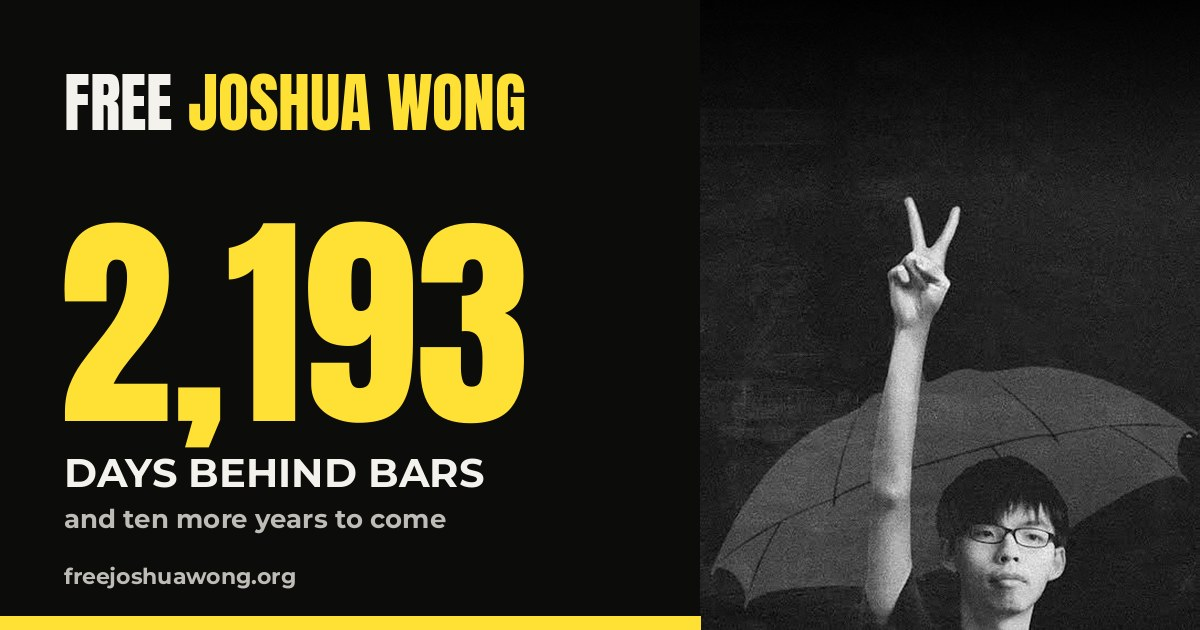
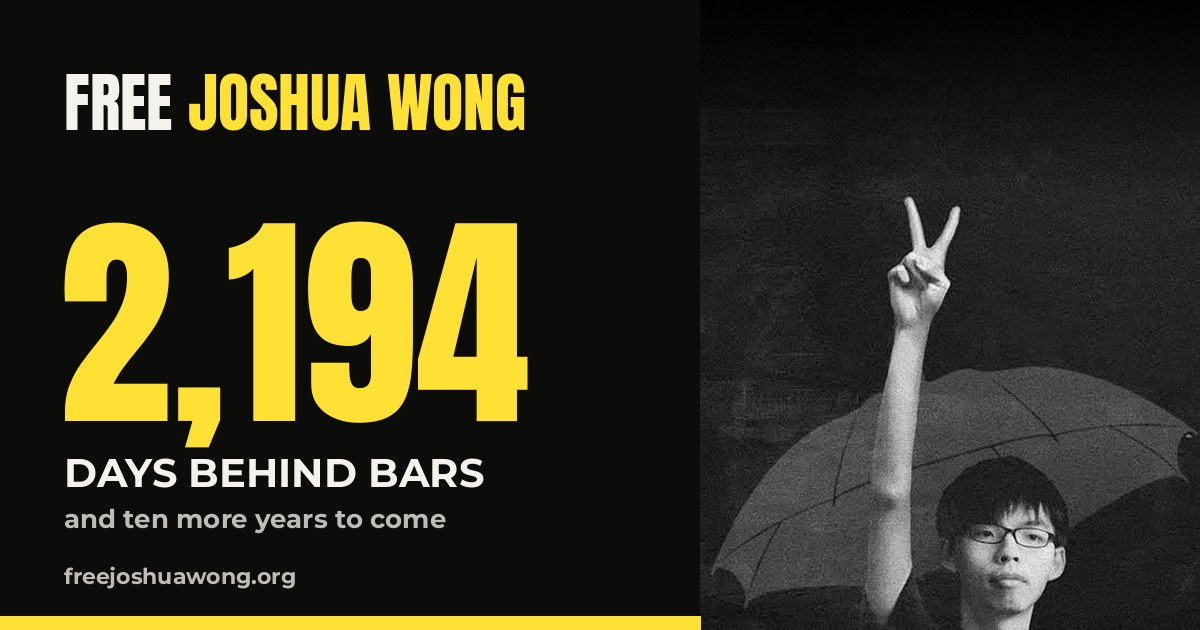
Press: add Hong Kong Watch Interpol report (25 Nov), Kong Tsung-gan prisoners list (19 Nov), CFHK Foundation 30th birthday piece (16 Oct); update Latest; rebuild
Claude-Session: https://claude.ai/code/session_01MmFPUtp6LP5YE6Mx7r4t96

Changed region(s): [[0.3392, 0.3317, 0.4625, 0.6937]]

diff --git a/index.html b/index.html
@@ -20,7 +20,7 @@
 <link rel="preconnect" href="https://fonts.googleapis.com">
 <link rel="preconnect" href="https://fonts.gstatic.com" crossorigin>
 <link href="https://fonts.googleapis.com/css2?family=Anton&family=Montserrat:wght@500;600;700;800&family=Newsreader:ital,opsz,wght@0,6..72,300..600;1,6..72,300..500&display=swap" rel="stylesheet">
-<link rel="stylesheet" href="assets/site.css?v=63387944">
+<link rel="stylesheet" href="assets/site.css?v=952ca394">
 <script data-goatcounter="https://freejoshuawong.goatcounter.com/count" async src="https://gc.zgo.at/count.js"></script>
 </head>
 <body>
@@ -43,7 +43,7 @@
       <div class="r now"><span class="y">2026</span><b>Prisoner vs. Superpower</b></div>
       <div class="r cell-row"><span class="y">Now</span>
         <div class="cell" role="timer" aria-label="Days Joshua Wong has spent in prison">
-          <div class="cell-in"><span class="n" id="days" data-jailed="2020-11-23">2,193</span><span class="u">days<br>behind bars</span></div>
+          <div class="cell-in"><span class="n" id="days" data-jailed="2020-11-23">2,194</span><span class="u">days<br>behind bars</span></div>
         </div>
       </div>
     </div>
@@ -102,7 +102,7 @@
       <a href="voices.html#governments"><b>11</b><span>governments, plus the EU, condemned his sentence</span></a>
       <a href="letters/open-letter-prime-minister-sept-2026.html"><b>31</b><span>MPs, peers and rights leaders signed the open letter to the Prime Minister</span></a>
       <a href="parliament.html"><b>17</b><span>times raised in Parliament since the new charge in June 2025</span></a>
-      <a href="newsroom.html"><b>73</b><span>reports, podcasts and editorials since June 2025</span></a>
+      <a href="newsroom.html"><b>76</b><span>reports, podcasts and editorials since June 2025</span></a>
     </div>
   </div>
 </section>
@@ -121,34 +121,34 @@
       <h3>Asked and answered</h3>
       <p class="tk-lede">What ministers have been asked about Joshua since September, and what they have said.</p>
       <div class="wait-row">
-        <div class="wait-n"><span data-since="2026-11-11">14</span><small>days since 11 Nov</small></div>
+        <div class="wait-n"><span data-since="2026-11-11">15</span><small>days since 11 Nov</small></div>
         <div><em class="tk-st st-weak">No action</em><h4>Will the UK consider sanctions on those responsible?</h4><p>Written question from Richard Holden MP. Answering on 19 November, the minister said it “would not be appropriate for me to speculate on future measures”. <a href="https://questions-statements.parliament.uk/written-questions/detail/2026-11-11/42157" target="_blank" rel="noopener">The answer</a></p></div>
       </div>
       <div class="wait-row">
-        <div class="wait-n"><span data-since="2026-11-10">15</span><small>days since 10 Nov</small></div>
+        <div class="wait-n"><span data-since="2026-11-10">16</span><small>days since 10 Nov</small></div>
         <div><em class="tk-st st-dodged">Not answered</em><h4>Has the Foreign Secretary summoned the Chinese Ambassador over Joshua?</h4><p>Written question from Alex Barros-Curtis MP, one of seven tabled after the sentence. Answered on 18 November with a reference to another answer, which does not say whether the Ambassador has been summoned. <a href="https://questions-statements.parliament.uk/written-questions/detail/2026-11-10/41576" target="_blank" rel="noopener">The answer</a></p></div>
       </div>
       <div class="wait-row">
-        <div class="wait-n"><span data-since="2026-11-10">15</span><small>days since 10 Nov</small></div>
+        <div class="wait-n"><span data-since="2026-11-10">16</span><small>days since 10 Nov</small></div>
         <div><em class="tk-st st-weak">No action</em><h4>Summon the Ambassador and call for Joshua’s release, as the Government did for Jimmy Lai</h4><p>Emily Darlington MP in the Commons. The Security Minister said the Government “share the concerns” but made no commitment. <a href="parliament.html#exchange-nov">Watch the exchange</a></p></div>
       </div>
       <div class="wait-row">
-        <div class="wait-n"><span data-since="2026-11-03">22</span><small>days since 3 Nov</small></div>
+        <div class="wait-n"><span data-since="2026-11-03">23</span><small>days since 3 Nov</small></div>
         <div><em class="tk-st st-weak">No action</em><h4>Will Joshua’s treatment count in decisions on China’s new embassy?</h4><p>Written question from Alex Barros-Curtis MP. The Government said it does not comment on ongoing legal proceedings. <a href="https://questions-statements.parliament.uk/written-questions/detail/2026-10-22/37356" target="_blank" rel="noopener">The answer</a></p></div>
       </div>
       <div class="wait-row">
-        <div class="wait-n"><span data-since="2026-09-13">73</span><small>days since 13 Sep</small></div>
+        <div class="wait-n"><span data-since="2026-09-13">74</span><small>days since 13 Sep</small></div>
         <div><em class="tk-st st-none">No reply</em><h4>Summon China’s Ambassador to raise Joshua’s case</h4><p><a href="letters/open-letter-prime-minister-sept-2026.html">The open letter to the Prime Minister</a>, Andy Burnham, signed by 31 MPs, peers and rights leaders. No reply. <a href="letters/open-letter-prime-minister-sept-2026.html">Read the letter</a></p></div>
       </div>
       <div class="wait-row">
-        <div class="wait-n"><span data-since="2026-09-08">78</span><small>days since 8 Sep</small></div>
+        <div class="wait-n"><span data-since="2026-09-08">79</span><small>days since 8 Sep</small></div>
         <div><em class="tk-st st-weak">No action</em><h4>What has the UK said to Hong Kong about Joshua’s case?</h4><p>Six written questions from Gregory Stafford MP. One answer for all six: the Government “continues to monitor” the case. <a href="https://qna.files.parliament.uk/qnadailyreports/Written-Questions-Answers-Statements-Daily-Report-Commons-2026-09-08.pdf" target="_blank" rel="noopener">Read the answer (p.478)</a></p></div>
       </div>
       <div class="wait-row">
-        <div class="wait-n"><span data-since="2026-09-01">85</span><small>days since 1 Sep</small></div>
+        <div class="wait-n"><span data-since="2026-09-01">86</span><small>days since 1 Sep</small></div>
         <div><em class="tk-st st-noupdate">No update</em><h4>Take Joshua’s case up with China</h4><p>Sir Iain Duncan Smith in the Commons. The Foreign Secretary, Ed Miliband, said he would. No update has been made public. <a href="parliament.html#exchange">Watch the exchange</a></p></div>
       </div>
-      <p class="tk-foot">For comparison: when Jimmy Lai was convicted on 15 December 2025, the Foreign Office <a href="https://www.gov.uk/government/news/statement-fcdo-summons-chinese-ambassador-15-december-2025" target="_blank" rel="noopener">summoned the Chinese Ambassador the same day</a>. Joshua was sentenced <b data-since="2026-11-05">20</b> days ago. There has been no public word of the Ambassador being summoned over his case.</p>
+      <p class="tk-foot">For comparison: when Jimmy Lai was convicted on 15 December 2025, the Foreign Office <a href="https://www.gov.uk/government/news/statement-fcdo-summons-chinese-ambassador-15-december-2025" target="_blank" rel="noopener">summoned the Chinese Ambassador the same day</a>. Joshua was sentenced <b data-since="2026-11-05">21</b> days ago. There has been no public word of the Ambassador being summoned over his case.</p>
     </div>
     <p class="h4-more"><a href="case.html">Read the full case</a></p>
   </div>
@@ -189,7 +189,7 @@ Yours sincerely,
 <section class="h4-news">
   <div class="wrap">
     <div class="h4-news-head"><h2>Latest coverage</h2><a class="h4-link" href="newsroom.html">All coverage and statements</a></div>
-    <ul class="newslist"><li><a href="https://democracylocal.substack.com/p/asia-democracy-chronicles-silenced" target="_blank" rel="noopener"><span class="o">Asia Democracy Chronicles · Andrew Shum</span><span class="h">Silenced, not forgotten: Joshua Wong’s long imprisonment</span><span class="d">23 Nov 2026</span></a></li><li><a href="https://hkuncensored.substack.com/p/apecs-blind-spot" target="_blank" rel="noopener"><span class="o">Committee for Freedom in Hong Kong Foundation</span><span class="h">APEC’s blind spot: Hong Kong’s political prisoners, including Joshua, at the Shenzhen summit</span><span class="d">20 Nov 2026</span></a></li><li><a href="https://engelsbergideas.com/notebook/xis-shenzhen-summit-was-less-novel-than-it-seemed/" target="_blank" rel="noopener"><span class="o">Engelsberg Ideas · Jeffrey Wasserstrom</span><span class="h">Xi’s Shenzhen summit was less novel than it seemed</span><span class="d">20 Nov 2026</span></a></li><li><a href="https://www.hawley.senate.gov/hawley-urges-state-department-to-advocate-for-release-of-hong-kong-rights-champion-joshua-wong/" target="_blank" rel="noopener"><span class="o">US Senate</span><span class="h">Senator Josh Hawley urges the Secretary of State to press for Joshua’s release</span><span class="d">20 Nov 2026</span></a></li><li><a href="parliament.html" target="_blank" rel="noopener"><span class="o">Parliament · Written answers</span><span class="h">Asked whether the Ambassador was summoned, the minister doesn’t say</span><span class="d">18–19 Nov 2026</span></a></li></ul>
+    <ul class="newslist"><li><a href="https://www.hongkongwatch.org/all-posts/2026/11/25/china-and-hong-kong-abusing-interpols-red-notice-system-as-world-police-chiefs-meet-in-hong-kong" target="_blank" rel="noopener"><span class="o">Hong Kong Watch</span><span class="h">China and Hong Kong abusing Interpol’s Red Notice system, as world police chiefs meet in Hong Kong</span><span class="d">25 Nov 2026</span></a></li><li><a href="https://democracylocal.substack.com/p/asia-democracy-chronicles-silenced" target="_blank" rel="noopener"><span class="o">Asia Democracy Chronicles · Andrew Shum</span><span class="h">Silenced, not forgotten: Joshua Wong’s long imprisonment</span><span class="d">23 Nov 2026</span></a></li><li><a href="https://hkuncensored.substack.com/p/apecs-blind-spot" target="_blank" rel="noopener"><span class="o">Committee for Freedom in Hong Kong Foundation</span><span class="h">APEC’s blind spot: Hong Kong’s political prisoners, including Joshua, at the Shenzhen summit</span><span class="d">20 Nov 2026</span></a></li><li><a href="https://engelsbergideas.com/notebook/xis-shenzhen-summit-was-less-novel-than-it-seemed/" target="_blank" rel="noopener"><span class="o">Engelsberg Ideas · Jeffrey Wasserstrom</span><span class="h">Xi’s Shenzhen summit was less novel than it seemed</span><span class="d">20 Nov 2026</span></a></li><li><a href="https://www.hawley.senate.gov/hawley-urges-state-department-to-advocate-for-release-of-hong-kong-rights-champion-joshua-wong/" target="_blank" rel="noopener"><span class="o">US Senate</span><span class="h">Senator Josh Hawley urges the Secretary of State to press for Joshua’s release</span><span class="d">20 Nov 2026</span></a></li></ul>
   </div>
 </section>
 </main>
@@ -233,7 +233,7 @@ window.addEventListener('DOMContentLoaded',function(){
     <div>
       <div class="brand">Free <span>Joshua Wong</span></div>
       <p>A campaign for the release of Joshua Wong, the Hong Kong democracy campaigner in prison since November 2020.</p>
-      <p class="updated" style="font-size:12px;opacity:.6">Last updated 25 November 2026</p>
+      <p class="updated" style="font-size:12px;opacity:.6">Last updated 26 November 2026</p>
     </div>
     <div class="cols">
       <nav aria-label="Footer">
@@ -248,6 +248,6 @@ window.addEventListener('DOMContentLoaded',function(){
   </div>
 </footer>
 <script src="assets/messages.js"></script>
-<script src="assets/site.js?v=63387944"></script>
+<script src="assets/site.js?v=952ca394"></script>
 </body>
 </html>

diff --git a/parliament.html b/parliament.html
@@ -20,7 +20,7 @@
 <link rel="preconnect" href="https://fonts.googleapis.com">
 <link rel="preconnect" href="https://fonts.gstatic.com" crossorigin>
 <link href="https://fonts.googleapis.com/css2?family=Anton&family=Montserrat:wght@500;600;700;800&family=Newsreader:ital,opsz,wght@0,6..72,300..600;1,6..72,300..500&display=swap" rel="stylesheet">
-<link rel="stylesheet" href="assets/site.css?v=63387944">
+<link rel="stylesheet" href="assets/site.css?v=952ca394">
 <script data-goatcounter="https://freejoshuawong.goatcounter.com/count" async src="https://gc.zgo.at/count.js"></script>
 </head>
 <body>
@@ -128,7 +128,7 @@
           <div class="px-role">Foreign Secretary</div>
           <p>Said he would take up Joshua’s case.</p>
         </div>
-        <div class="px-count"><b data-since="2026-09-01">85</b><span>days since that promise.<br>No update has been made public.</span></div>
+        <div class="px-count"><b data-since="2026-09-01">86</b><span>days since that promise.<br>No update has been made public.</span></div>
         <div data-share data-url="https://freejoshuawong.org/parliament.html" data-text="The Foreign Secretary promised to take up Joshua Wong’s case. No update since. #FreeJoshuaWong #JoshuaWong"></div>
       </div>
     </div>
@@ -192,7 +192,7 @@
         <div><div class="rec-who">Written questions · Gregory Stafford MP <span class="pty pty-con" title="Conservative">Con</span></div><h3>Six questions, one answer</h3><p>Gregory Stafford MP asked six questions on Joshua’s case, including what representations the UK has made to the Hong Kong authorities and its assessment of the rule of law in his case. Minister Chris Elmore gave a single answer: the Government continues to monitor the case, reports on it in the six-monthly reports, and repeats its call for the National Security Law to be repealed.</p><a class="src" href="https://qna.files.parliament.uk/qnadailyreports/Written-Questions-Answers-Statements-Daily-Report-Commons-2026-09-08.pdf" target="_blank" rel="noopener">Daily Report, p.478</a></div>
       </article><article class="rec" data-k="commons" id="rec-2026-09-01">
         <div class="rec-d"><span>1 Sep 2026</span><em class="k-commons">Commons</em></div>
-        <div><div class="rec-who">Foreign Office Questions · House of Commons</div><h3>“Enough is enough”</h3><p>Sir Iain Duncan Smith urged the Government to raise Joshua’s case with Beijing. Foreign Secretary Ed Miliband said he would take it up. No update has been made public since.</p><div class="rec-wait"><b data-since="2026-09-01">85</b> days, no update</div><a class="src" href="#exchange">Watch the exchange</a></div>
+        <div><div class="rec-who">Foreign Office Questions · House of Commons</div><h3>“Enough is enough”</h3><p>Sir Iain Duncan Smith urged the Government to raise Joshua’s case with Beijing. Foreign Secretary Ed Miliband said he would take it up. No update has been made public since.</p><div class="rec-wait"><b data-since="2026-09-01">86</b> days, no update</div><a class="src" href="#exchange">Watch the exchange</a></div>
       </article><article class="rec" data-k="lords">
         <div class="rec-d"><span>17 Dec 2025</span><em class="k-lords">Lords</em></div>
         <div><div class="rec-who">Jimmy Lai Conviction · House of Lords</div><h3>Named in the Lords after Jimmy Lai’s conviction</h3><p>Lord Alton asked what the Government is doing to raise the cases of pro-democracy prisoners “such as Joshua Wong and Andy Li”.</p><a class="src" href="https://hansard.parliament.uk/Lords/2025-12-17/debates/6CF28FA8-3A92-4C34-808D-A4BDD6322D85/JimmyLaiConviction" target="_blank" rel="noopener">Read the debate</a></div>
@@ -241,7 +241,7 @@
     <div>
       <div class="brand">Free <span>Joshua Wong</span></div>
       <p>A campaign for the release of Joshua Wong, the Hong Kong democracy campaigner in prison since November 2020.</p>
-      <p class="updated" style="font-size:12px;opacity:.6">Last updated 25 November 2026</p>
+      <p class="updated" style="font-size:12px;opacity:.6">Last updated 26 November 2026</p>
     </div>
     <div class="cols">
       <nav aria-label="Footer">
@@ -255,6 +255,6 @@
     </div>
   </div>
 </footer>
-<script src="assets/site.js?v=63387944"></script>
+<script src="assets/site.js?v=952ca394"></script>
 </body>
 </html>

diff --git a/zh.html b/zh.html
@@ -20,7 +20,7 @@
 <link rel="preconnect" href="https://fonts.googleapis.com">
 <link rel="preconnect" href="https://fonts.gstatic.com" crossorigin>
 <link href="https://fonts.googleapis.com/css2?family=Anton&family=Montserrat:wght@500;600;700;800&family=Newsreader:ital,opsz,wght@0,6..72,300..600;1,6..72,300..500&display=swap" rel="stylesheet">
-<link rel="stylesheet" href="assets/site.css?v=63387944">
+<link rel="stylesheet" href="assets/site.css?v=952ca394">
 <script data-goatcounter="https://freejoshuawong.goatcounter.com/count" async src="https://gc.zgo.at/count.js"></script>
 </head>
 <body>
@@ -43,7 +43,7 @@
 <div class="wrap"><p class="zh-demand">召見中國大使，釋放黃之鋒。</p></div>
 <section class="zh" style="border-top:0;padding-top:20px">
   <div class="wrap zh-body">
-    <div class="zh-count"><b data-since="2020-11-23">2193</b><span>日<br>身陷囹圄</span></div>
+    <div class="zh-count"><b data-since="2020-11-23">2194</b><span>日<br>身陷囹圄</span></div>
 
     <h2 class="zh-h">他是誰</h2>
     <p>黃之鋒十四歲時與同學創立學民思潮，2012年帶領反對國民教育科的運動。2014年雨傘運動期間，他是學生領袖之一。2016年，他與羅冠聰等人創立香港眾志。</p>
@@ -108,7 +108,7 @@
     <div>
       <div class="brand">Free <span>Joshua Wong</span></div>
       <p>A campaign for the release of Joshua Wong, the Hong Kong democracy campaigner in prison since November 2020.</p>
-      <p class="updated" style="font-size:12px;opacity:.6">Last updated 25 November 2026</p>
+      <p class="updated" style="font-size:12px;opacity:.6">Last updated 26 November 2026</p>
     </div>
     <div class="cols">
       <nav aria-label="Footer">
@@ -122,6 +122,6 @@
     </div>
   </div>
 </footer>
-<script src="assets/site.js?v=63387944"></script>
+<script src="assets/site.js?v=952ca394"></script>
 </body>
 </html>

diff --git a/assets/press.js b/assets/press.js
@@ -11,6 +11,9 @@ window.MOMENTS = [
   {id:"sentence", label:"Ten more years",     when:"November 2026"}
 ];
 window.PRESS = [
+  {date:"2026-11-25", outlet:"Hong Kong Watch", type:"rights", region:"UK", moment:"sentence", by:"Frances Bell", title:"China and Hong Kong abusing Interpol’s Red Notice system, as world police chiefs meet in Hong Kong", url:"https://www.hongkongwatch.org/all-posts/2026/11/25/china-and-hong-kong-abusing-interpols-red-notice-system-as-world-police-chiefs-meet-in-hong-kong"},
+  {date:"2026-11-19", outlet:"Kong Tsung-gan (Substack)", type:"opinion", region:"Global", moment:"sentence", by:"Kong Tsung-gan", title:"As 2026 comes to a close, there are still 25 Hong Kong pro-democracy leaders in prison", url:"https://briankernkongtsunggan.substack.com/p/as-2026-comes-to-a-close-there-are"},
+  {date:"2026-10-16", outlet:"Committee for Freedom in Hong Kong Foundation", type:"rights", region:"US", moment:"birthday", title:"‘The Most Disciplined Activist’: Joshua Wong Turns 30 Behind Bars", url:"https://thecfhk.org/9393-2/"},
   {date:"2026-11-23", outlet:"Asia Democracy Chronicles (via Democracy Local)", type:"opinion", region:"Global", moment:"sentence", by:"Andrew Shum", title:"Silenced, Not Forgotten: Joshua Wong’s Long Imprisonment", url:"https://democracylocal.substack.com/p/asia-democracy-chronicles-silenced"},
   {date:"2026-11-18", outlet:"Consequence Forum", type:"opinion", region:"Asia", moment:"sentence", by:"C. J. Anderson-Wu", title:"Hong Kong Activist Joshua Wong Receives Another Ten-Year Sentence", url:"https://consequenceforum.substack.com/p/hong-kong-activist-joshua-wong-receives"},
   {date:"2026-11-20", outlet:"Committee for Freedom in Hong Kong Foundation", type:"rights", region:"US", moment:"sentence", title:"APEC’s Blind Spot", url:"https://hkuncensored.substack.com/p/apecs-blind-spot"},

diff --git a/voices.html b/voices.html
@@ -20,7 +20,7 @@
 <link rel="preconnect" href="https://fonts.googleapis.com">
 <link rel="preconnect" href="https://fonts.gstatic.com" crossorigin>
 <link href="https://fonts.googleapis.com/css2?family=Anton&family=Montserrat:wght@500;600;700;800&family=Newsreader:ital,opsz,wght@0,6..72,300..600;1,6..72,300..500&display=swap" rel="stylesheet">
-<link rel="stylesheet" href="assets/site.css?v=63387944">
+<link rel="stylesheet" href="assets/site.css?v=952ca394">
 <script data-goatcounter="https://freejoshuawong.goatcounter.com/count" async src="https://gc.zgo.at/count.js"></script>
 </head>
 <body>
@@ -108,7 +108,7 @@
     <div>
       <div class="brand">Free <span>Joshua Wong</span></div>
       <p>A campaign for the release of Joshua Wong, the Hong Kong democracy campaigner in prison since November 2020.</p>
-      <p class="updated" style="font-size:12px;opacity:.6">Last updated 25 November 2026</p>
+      <p class="updated" style="font-size:12px;opacity:.6">Last updated 26 November 2026</p>
     </div>
     <div class="cols">
       <nav aria-label="Footer">
@@ -122,8 +122,8 @@
     </div>
   </div>
 </footer>
-<script src="assets/voices.js?v=63387944"></script>
-<script src="assets/socials.js?v=63387944"></script>
-<script src="assets/site.js?v=63387944"></script>
+<script src="assets/voices.js?v=952ca394"></script>
+<script src="assets/socials.js?v=952ca394"></script>
+<script src="assets/site.js?v=952ca394"></script>
 </body>
 </html>

diff --git a/newsroom.html b/newsroom.html
@@ -20,7 +20,7 @@
 <link rel="preconnect" href="https://fonts.googleapis.com">
 <link rel="preconnect" href="https://fonts.gstatic.com" crossorigin>
 <link href="https://fonts.googleapis.com/css2?family=Anton&family=Montserrat:wght@500;600;700;800&family=Newsreader:ital,opsz,wght@0,6..72,300..600;1,6..72,300..500&display=swap" rel="stylesheet">
-<link rel="stylesheet" href="assets/site.css?v=63387944">
+<link rel="stylesheet" href="assets/site.css?v=952ca394">
 <script data-goatcounter="https://freejoshuawong.goatcounter.com/count" async src="https://gc.zgo.at/count.js"></script>
 </head>
 <body>
@@ -139,7 +139,7 @@
     <div>
       <div class="brand">Free <span>Joshua Wong</span></div>
       <p>A campaign for the release of Joshua Wong, the Hong Kong democracy campaigner in prison since November 2020.</p>
-      <p class="updated" style="font-size:12px;opacity:.6">Last updated 25 November 2026</p>
+      <p class="updated" style="font-size:12px;opacity:.6">Last updated 26 November 2026</p>
     </div>
     <div class="cols">
       <nav aria-label="Footer">
@@ -153,7 +153,7 @@
     </div>
   </div>
 </footer>
-<script src="assets/press.js?v=63387944"></script>
-<script src="assets/site.js?v=63387944"></script>
+<script src="assets/press.js?v=952ca394"></script>
+<script src="assets/site.js?v=952ca394"></script>
 </body>
 </html>

diff --git a/act.html b/act.html
@@ -20,7 +20,7 @@
 <link rel="preconnect" href="https://fonts.googleapis.com">
 <link rel="preconnect" href="https://fonts.gstatic.com" crossorigin>
 <link href="https://fonts.googleapis.com/css2?family=Anton&family=Montserrat:wght@500;600;700;800&family=Newsreader:ital,opsz,wght@0,6..72,300..600;1,6..72,300..500&display=swap" rel="stylesheet">
-<link rel="stylesheet" href="assets/site.css?v=63387944">
+<link rel="stylesheet" href="assets/site.css?v=952ca394">
 <script data-goatcounter="https://freejoshuawong.goatcounter.com/count" async src="https://gc.zgo.at/count.js"></script>
 </head>
 <body>
@@ -134,7 +134,7 @@ Yours sincerely,
     <div>
       <div class="brand">Free <span>Joshua Wong</span></div>
       <p>A campaign for the release of Joshua Wong, the Hong Kong democracy campaigner in prison since November 2020.</p>
-      <p class="updated" style="font-size:12px;opacity:.6">Last updated 25 November 2026</p>
+      <p class="updated" style="font-size:12px;opacity:.6">Last updated 26 November 2026</p>
     </div>
     <div class="cols">
       <nav aria-label="Footer">
@@ -148,6 +148,6 @@ Yours sincerely,
     </div>
   </div>
 </footer>
-<script src="assets/site.js?v=63387944"></script>
+<script src="assets/site.js?v=952ca394"></script>
 </body>
 </html>

diff --git a/write.html b/write.html
@@ -20,7 +20,7 @@
 <link rel="preconnect" href="https://fonts.googleapis.com">
 <link rel="preconnect" href="https://fonts.gstatic.com" crossorigin>
 <link href="https://fonts.googleapis.com/css2?family=Anton&family=Montserrat:wght@500;600;700;800&family=Newsreader:ital,opsz,wght@0,6..72,300..600;1,6..72,300..500&display=swap" rel="stylesheet">
-<link rel="stylesheet" href="assets/site.css?v=63387944">
+<link rel="stylesheet" href="assets/site.css?v=952ca394">
 <script data-goatcounter="https://freejoshuawong.goatcounter.com/count" async src="https://gc.zgo.at/count.js"></script>
 </head>
 <body>
@@ -102,7 +102,7 @@
     <div>
       <div class="brand">Free <span>Joshua Wong</span></div>
       <p>A campaign for the release of Joshua Wong, the Hong Kong democracy campaigner in prison since November 2020.</p>
-      <p class="updated" style="font-size:12px;opacity:.6">Last updated 25 November 2026</p>
+      <p class="updated" style="font-size:12px;opacity:.6">Last updated 26 November 2026</p>
     </div>
     <div class="cols">
       <nav aria-label="Footer">
@@ -117,6 +117,6 @@
   </div>
 </footer>
 <script src="assets/messages.js"></script>
-<script src="assets/site.js?v=63387944"></script>
+<script src="assets/site.js?v=952ca394"></script>
 </body>
 </html>

diff --git a/letters/open-letter-prime-minister-sept-2026.html b/letters/open-letter-prime-minister-sept-2026.html
@@ -20,7 +20,7 @@
 <link rel="preconnect" href="https://fonts.googleapis.com">
 <link rel="preconnect" href="https://fonts.gstatic.com" crossorigin>
 <link href="https://fonts.googleapis.com/css2?family=Anton&family=Montserrat:wght@500;600;700;800&family=Newsreader:ital,opsz,wght@0,6..72,300..600;1,6..72,300..500&display=swap" rel="stylesheet">
-<link rel="stylesheet" href="../assets/site.css?v=63387944">
+<link rel="stylesheet" href="../assets/site.css?v=952ca394">
 <script data-goatcounter="https://freejoshuawong.goatcounter.com/count" async src="https://gc.zgo.at/count.js"></script>
 </head>
 <body>
@@ -77,7 +77,7 @@
     <div>
       <div class="brand">Free <span>Joshua Wong</span></div>
       <p>A campaign for the release of Joshua Wong, the Hong Kong democracy campaigner in prison since November 2020.</p>
-      <p class="updated" style="font-size:12px;opacity:.6">Last updated 25 November 2026</p>
+      <p class="updated" style="font-size:12px;opacity:.6">Last updated 26 November 2026</p>
     </div>
     <div class="cols">
       <nav aria-label="Footer">
@@ -91,6 +91,6 @@
     </div>
   </div>
 </footer>
-<script src="../assets/site.js?v=63387944"></script>
+<script src="../assets/site.js?v=952ca394"></script>
 </body>
 </html>

diff --git a/letters/times-letter-nov-2026.html b/letters/times-letter-nov-2026.html
@@ -20,7 +20,7 @@
 <link rel="preconnect" href="https://fonts.googleapis.com">
 <link rel="preconnect" href="https://fonts.gstatic.com" crossorigin>
 <link href="https://fonts.googleapis.com/css2?family=Anton&family=Montserrat:wght@500;600;700;800&family=Newsreader:ital,opsz,wght@0,6..72,300..600;1,6..72,300..500&display=swap" rel="stylesheet">
-<link rel="stylesheet" href="../assets/site.css?v=63387944">
+<link rel="stylesheet" href="../assets/site.css?v=952ca394">
 <script data-goatcounter="https://freejoshuawong.goatcounter.com/count" async src="https://gc.zgo.at/count.js"></script>
 </head>
 <body>
@@ -70,7 +70,7 @@
     <div>
       <div class="brand">Free <span>Joshua Wong</span></div>
       <p>A campaign for the release of Joshua Wong, the Hong Kong democracy campaigner in prison since November 2020.</p>
-      <p class="updated" style="font-size:12px;opacity:.6">Last updated 25 November 2026</p>
+      <p class="updated" style="font-size:12px;opacity:.6">Last updated 26 November 2026</p>
     </div>
     <div class="cols">
       <nav aria-label="Footer">
@@ -84,6 +84,6 @@
     </div>
   </div>
 </footer>
-<script src="../assets/site.js?v=63387944"></script>
+<script src="../assets/site.js?v=952ca394"></script>
 </body>
 </html>

diff --git a/voices/alicia-kearns-mp-2026-11-05.html b/voices/alicia-kearns-mp-2026-11-05.html
@@ -20,7 +20,7 @@
 <link rel="preconnect" href="https://fonts.googleapis.com">
 <link rel="preconnect" href="https://fonts.gstatic.com" crossorigin>
 <link href="https://fonts.googleapis.com/css2?family=Anton&family=Montserrat:wght@500;600;700;800&family=Newsreader:ital,opsz,wght@0,6..72,300..600;1,6..72,300..500&display=swap" rel="stylesheet">
-<link rel="stylesheet" href="../assets/site.css?v=63387944">
+<link rel="stylesheet" href="../assets/site.css?v=952ca394">
 <script data-goatcounter="https://freejoshuawong.goatcounter.com/count" async src="https://gc.zgo.at/count.js"></script>
 </head>
 <body>
@@ -57,7 +57,7 @@
     <div>
       <div class="brand">Free <span>Joshua Wong</span></div>
       <p>A campaign for the release of Joshua Wong, the Hong Kong democracy campaigner in prison since November 2020.</p>
-      <p class="updated" style="font-size:12px;opacity:.6">Last updated 25 November 2026</p>
+      <p class="updated" style="font-size:12px;opacity:.6">Last updated 26 November 2026</p>
     </div>
     <div class="cols">
       <nav aria-label="Footer">
@@ -71,6 +71,6 @@
     </div>
   </div>
 </footer>
-<script src="../assets/site.js?v=63387944"></script>
+<script src="../assets/site.js?v=952ca394"></script>
 </body>
 </html>

diff --git a/voices/alicia-kearns-mp-2026-11-10.html b/voices/alicia-kearns-mp-2026-11-10.html
@@ -20,7 +20,7 @@
 <link rel="preconnect" href="https://fonts.googleapis.com">
 <link rel="preconnect" href="https://fonts.gstatic.com" crossorigin>
 <link href="https://fonts.googleapis.com/css2?family=Anton&family=Montserrat:wght@500;600;700;800&family=Newsreader:ital,opsz,wght@0,6..72,300..600;1,6..72,300..500&display=swap" rel="stylesheet">
-<link rel="stylesheet" href="../assets/site.css?v=63387944">
+<link rel="stylesheet" href="../assets/site.css?v=952ca394">
 <script data-goatcounter="https://freejoshuawong.goatcounter.com/count" async src="https://gc.zgo.at/count.js"></script>
 </head>
 <body>
@@ -57,7 +57,7 @@
     <div>
       <div class="brand">Free <span>Joshua Wong</span></div>
       <p>A campaign for the release of Joshua Wong, the Hong Kong democracy campaigner in prison since November 2020.</p>
-      <p class="updated" style="font-size:12px;opacity:.6">Last updated 25 November 2026</p>
+      <p class="updated" style="font-size:12px;opacity:.6">Last updated 26 November 2026</p>
     </div>
     <div class="cols">
       <nav aria-label="Footer">
@@ -71,6 +71,6 @@
     </div>
   </div>
 </footer>
-<script src="../assets/site.js?v=63387944"></script>
+<script src="../assets/site.js?v=952ca394"></script>
 </body>
 </html>
